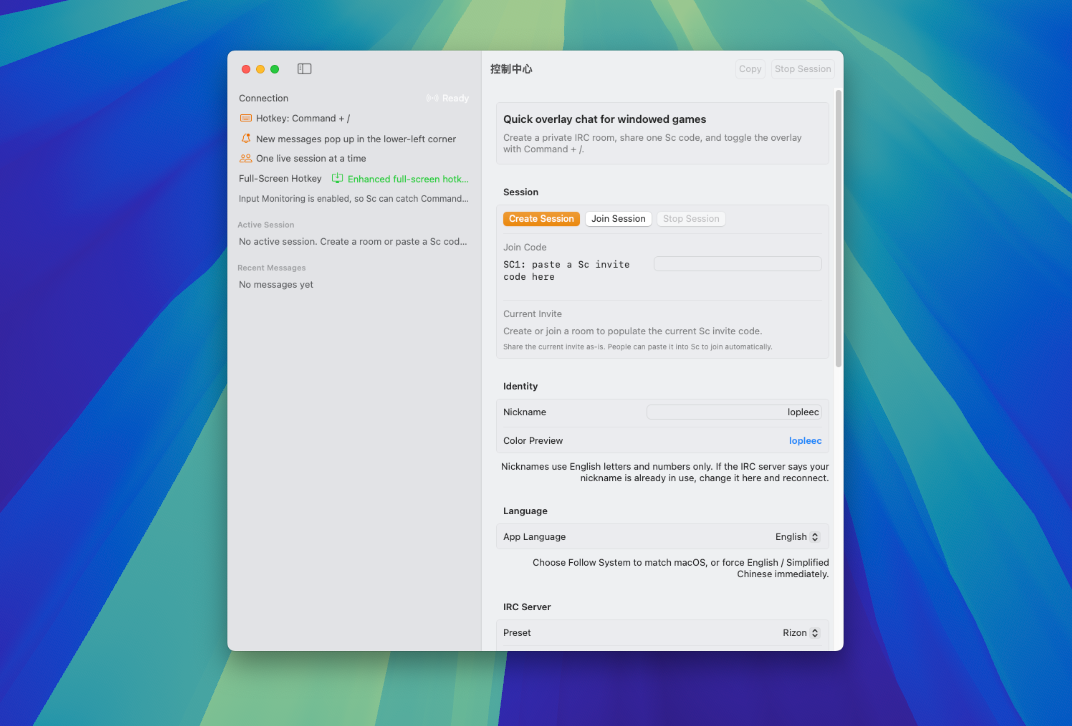
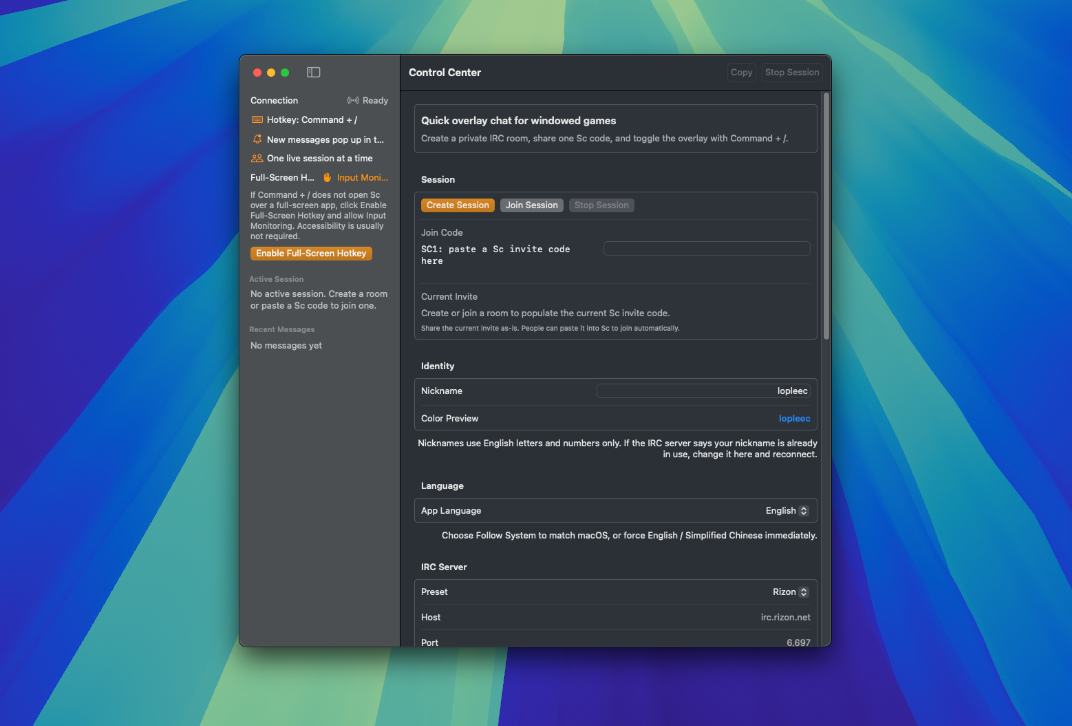
Refresh README screenshots

diff --git a/README.md b/README.md
@@ -20,6 +20,8 @@ Lightweight macOS overlay chat for windowed and borderless-fullscreen games.
 
 ## Screenshots
 
+### Feature Showcase / 功能展示
+
 ![Control Center](docs/images/control-center.png)
 
 *Control Center*
@@ -27,6 +29,12 @@ Lightweight macOS overlay chat for windowed and borderless-fullscreen games.
 ![Overlay Chat](docs/images/overlay-chat.png)
 
 *Overlay Chat*
+
+### Light / Dark Appearance / 深浅色展示
+
+![Light and Dark Modes](docs/images/light-dark-modes.png)
+
+*Control Center in light and dark appearance*
 
 ---
 